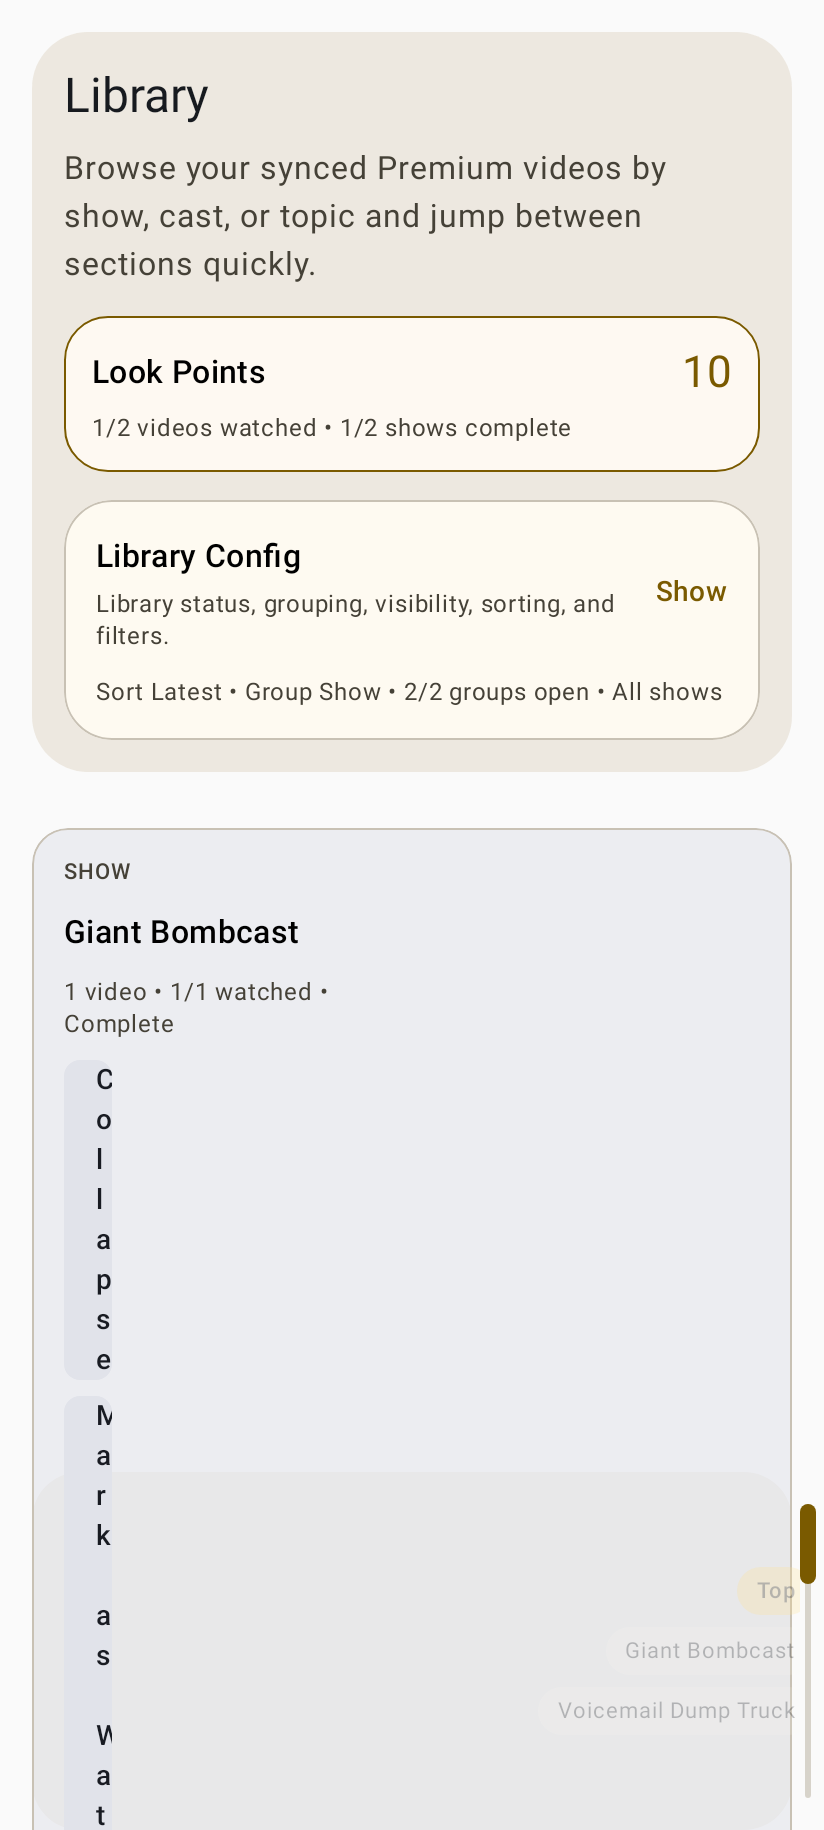
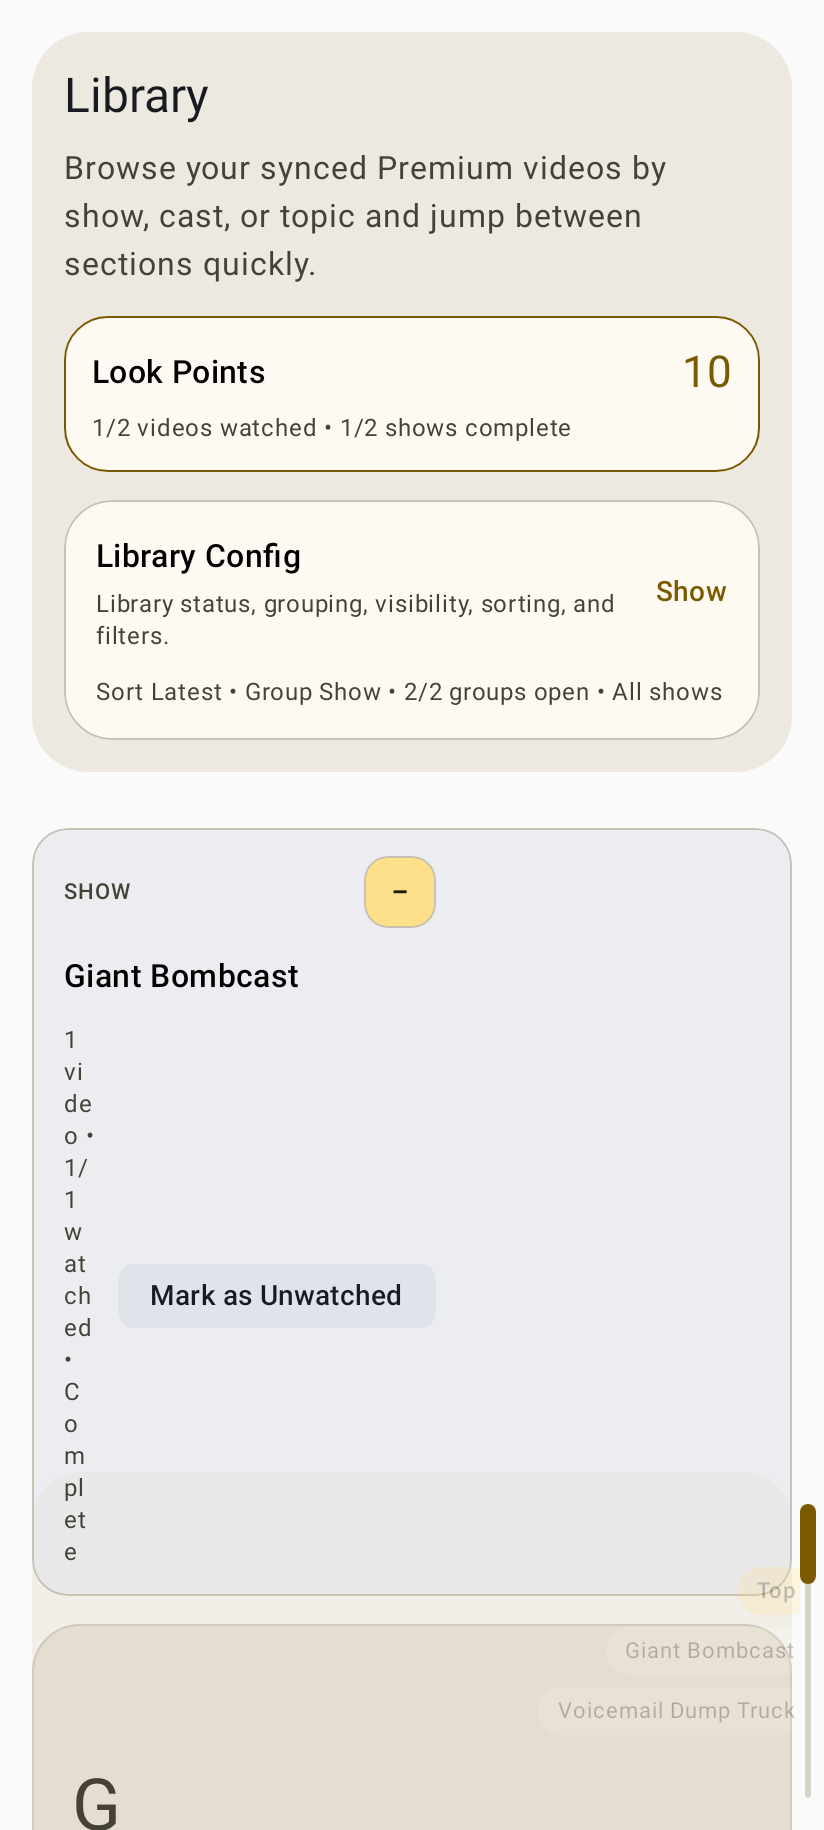
Polish Library header controls

diff --git a/feature/library/src/main/java/com/looktube/feature/library/LibraryRoute.kt b/feature/library/src/main/java/com/looktube/feature/library/LibraryRoute.kt
@@ -1,5 +1,4 @@
 package com.looktube.feature.library
-
 import androidx.compose.animation.animateContentSize
 import androidx.compose.animation.core.animateDpAsState
 import androidx.compose.animation.core.animateFloatAsState
@@ -1057,6 +1056,9 @@ private fun libraryWatchStatusLabel(
     else -> "Not started"
 }
 
+internal fun watchToggleActionLabel(isWatched: Boolean): String =
+    if (isWatched) "Mark as Unwatched" else "Mark as Watched"
+
 @Composable
 private fun SeriesSectionHeader(
     section: SeriesSection,
@@ -1076,7 +1078,6 @@ private fun SeriesSectionHeader(
         }
     }.joinToString(" • ")
     val sectionIsFullyWatched = watchedVideoCount == section.videos.size && section.videos.isNotEmpty()
-    val sectionIsFullyUnwatched = watchedVideoCount == 0
     Surface(
         modifier = Modifier
             .fillMaxWidth()
@@ -1101,39 +1102,74 @@ private fun SeriesSectionHeader(
                     end = 16.dp + textEndPadding,
                     bottom = 14.dp,
                 ),
-            verticalArrangement = Arrangement.spacedBy(10.dp),
+            verticalArrangement = Arrangement.spacedBy(12.dp),
         ) {
-            Text(
-                text = section.kindLabel.uppercase(),
-                style = MaterialTheme.typography.labelSmall,
-                color = MaterialTheme.colorScheme.onSurfaceVariant,
-            )
+            Row(
+                modifier = Modifier.fillMaxWidth(),
+                horizontalArrangement = Arrangement.SpaceBetween,
+                verticalAlignment = Alignment.CenterVertically,
+            ) {
+                Text(
+                    text = section.kindLabel.uppercase(),
+                    style = MaterialTheme.typography.labelSmall,
+                    color = MaterialTheme.colorScheme.onSurfaceVariant,
+                )
+                Surface(
+                    modifier = Modifier
+                        .size(36.dp)
+                        .clip(RoundedCornerShape(12.dp))
+                        .clickable(onClick = onToggleExpanded),
+                    shape = RoundedCornerShape(12.dp),
+                    color = if (isExpanded) {
+                        MaterialTheme.colorScheme.primaryContainer
+                    } else {
+                        MaterialTheme.colorScheme.surface
+                    },
+                    contentColor = if (isExpanded) {
+                        MaterialTheme.colorScheme.onPrimaryContainer
+                    } else {
+                        MaterialTheme.colorScheme.onSurface
+                    },
+                    tonalElevation = 0.dp,
+                    border = BorderStroke(1.dp, MaterialTheme.colorScheme.outlineVariant),
+                ) {
+                    Box(
+                        modifier = Modifier.fillMaxSize(),
+                        contentAlignment = Alignment.Center,
+                    ) {
+                        Text(
+                            text = if (isExpanded) "−" else "+",
+                            style = MaterialTheme.typography.titleMedium,
+                            fontWeight = FontWeight.SemiBold,
+                        )
+                    }
+                }
+            }
             Text(
                 text = section.title,
                 style = MaterialTheme.typography.titleMedium,
             )
-            Text(
-                text = supportingText,
-                style = MaterialTheme.typography.bodySmall,
-                color = MaterialTheme.colorScheme.onSurfaceVariant,
-            )
-            BrowseControlChipRow(
-                contentEndPadding = textEndPadding,
+            Row(
+                modifier = Modifier.fillMaxWidth(),
+                horizontalArrangement = Arrangement.spacedBy(12.dp),
+                verticalAlignment = Alignment.CenterVertically,
             ) {
-                FilterChip(
-                    selected = isExpanded,
-                    onClick = onToggleExpanded,
-                    label = { Text(if (isExpanded) "Collapse" else "Expand") },
+                Text(
+                    text = supportingText,
+                    style = MaterialTheme.typography.bodySmall,
+                    color = MaterialTheme.colorScheme.onSurfaceVariant,
+                    modifier = Modifier.weight(1f),
                 )
                 FilterChip(
                     selected = sectionIsFullyWatched,
-                    onClick = onMarkSectionWatched,
-                    label = { Text("Mark as Watched") },
-                )
-                FilterChip(
-                    selected = sectionIsFullyUnwatched,
-                    onClick = onMarkSectionUnwatched,
-                    label = { Text("Mark as Unwatched") },
+                    onClick = {
+                        if (sectionIsFullyWatched) {
+                            onMarkSectionUnwatched()
+                        } else {
+                            onMarkSectionWatched()
+                        }
+                    },
+                    label = { Text(watchToggleActionLabel(sectionIsFullyWatched)) },
                 )
             }
         }
@@ -1279,7 +1315,7 @@ private fun VideoListCard(
                                 onMarkVideoWatched(video.id)
                             }
                         },
-                        label = { Text(if (isWatched) "Mark as Unwatched" else "Mark as Watched") },
+                        label = { Text(watchToggleActionLabel(isWatched)) },
                     )
                 }
             }

diff --git a/feature/library/src/test/java/com/looktube/feature/library/LibrarySortTest.kt b/feature/library/src/test/java/com/looktube/feature/library/LibrarySortTest.kt
@@ -439,6 +439,12 @@ class LibrarySortTest {
         assertEquals(listOf(2, 5, 6), buildSectionStartIndices(displayedSections))
     }
 
+    @Test
+    fun watchToggleActionLabelReflectsCurrentState() {
+        assertEquals("Mark as Watched", watchToggleActionLabel(isWatched = false))
+        assertEquals("Mark as Unwatched", watchToggleActionLabel(isWatched = true))
+    }
+
     private fun video(
         id: String,
         title: String,

diff --git a/docs/spec/reproducible-project-spec.md b/docs/spec/reproducible-project-spec.md
@@ -75,7 +75,7 @@ An implementation that materially changes these choices can still be valid, but 
 - supports show filtering with the filter tray collapsed by default
 - supports collapsing and expanding individual grouped sections, plus overview-level expand-all and collapse-all actions when grouping is active
 - applies the chosen sort mode consistently to flat lists, grouped section ordering, and episode ordering within each visible group
-- renders grouped section headers, progress-aware video cards, per-video watched-state controls, group-level watched/unwatched actions, and a right-side jump rail that anchors to the episode-list panel for quick section navigation based on the currently visible section anchors
+- renders grouped section headers, progress-aware video cards, single-toggle watched-state controls, compact group-level watched-state toggles, and a right-side jump rail that anchors to the episode-list panel for quick section navigation based on the currently visible section anchors
 - shows watched-versus-total completion on grouped show headers when browsing by show
 - uses explicit `Mark as Watched` and `Mark as Unwatched` labels for manual watched-state actions
 - exposes key per-video metadata on cards and an explicit full-info affordance for inspecting each video's stored details
@@ -109,6 +109,7 @@ An implementation that materially changes these choices can still be valid, but 
 - Library sorting semantics stay consistent across grouped and ungrouped browsing: latest and oldest are chronological, while show ordering is alphabetical by group/show with newest episodes first within a show.
 - The library overview panel remains visually separate from the scrolling episode list, can scroll off screen before the episode list takes over the viewport, keeps the Look Points summary above a default-collapsed Library Config element, and the jump rail does not overlap that overview panel.
 - Grouped section collapse state is local UI state that survives scrolling and jump-rail use during the current session without needing cross-launch persistence.
+- Grouped header controls use compact layout, icon-only expand/collapse affordances, and a single current-state watched toggle instead of parallel watched and unwatched buttons.
 
 ### Background refresh and notifications
 - Saving a non-blank feed URL results in one active periodic background refresh registration.

diff --git a/docs/spec/product-spec.md b/docs/spec/product-spec.md
@@ -53,7 +53,8 @@ Harden the path from copied feed sync to daily repeat use.
 - watched-state actions use explicit `Mark as Watched` and `Mark as Unwatched` phrasing throughout the app
 - the Library overview exposes a compact Look Points summary based only on watched videos, while show completion remains a visual progress signal rather than a score bonus
 - any Library or Player UI element that presents Look Points uses the app's gold/yellow accent outline treatment
-- grouped section headers avoid redundant tap-instruction copy, surface watched-versus-total completion status, and expose explicit group-level `Mark as Watched` and `Mark as Unwatched` actions so fully watched shows are easy to spot and update in the browse flow
+- grouped section headers avoid redundant tap-instruction copy, use icon-only expand/collapse affordances, surface watched-versus-total completion status, and expose a single explicit group-level watched-state toggle action so fully watched shows are easy to spot and update in the browse flow without duplicated opposing buttons
+- any manual watched-state control in the app exposes only the next valid toggle action for its current state rather than parallel watched and unwatched buttons for the same item or group
 - selecting a video with saved playback progress resumes from that stored point reliably, including after app reloads where the bookmark state and player controller restore asynchronously
 - the Player tab keeps the player frame visible at the top when a video is opened from Library so the active surface stays in view above the supporting metadata
 - rotating into and out of fullscreen keeps the same active video and playback session instead of pausing, restarting, or reverting to a previously played item

diff --git a/docs/spec/agent-spec-package/references/architecture.md b/docs/spec/agent-spec-package/references/architecture.md
@@ -23,7 +23,7 @@ Its central promise is deliberately narrow:
 ### Library
 - combines status, grouping, sorting, filtering, jump navigation, and top-level progress context in one browse surface
 - keeps Look Points near the top of the surface and wraps status plus browse controls inside a default-collapsed Library Config element
-- grouped headers can collapse or expand independently, expose whole-group watched/unwatched actions, and keep overview controls for expanding or collapsing all groups
+- grouped headers can collapse or expand independently with compact icon-based expand/collapse controls, expose one whole-group watched-state toggle at a time, and keep overview controls for expanding or collapsing all groups
 - shows watched-versus-total progress for shows and a compact Look Points summary that scores watched videos only
 - uses explicit `Mark as Watched` and `Mark as Unwatched` wording for manual watch-state actions
 - should remain usable and informative even before a successful live sync
